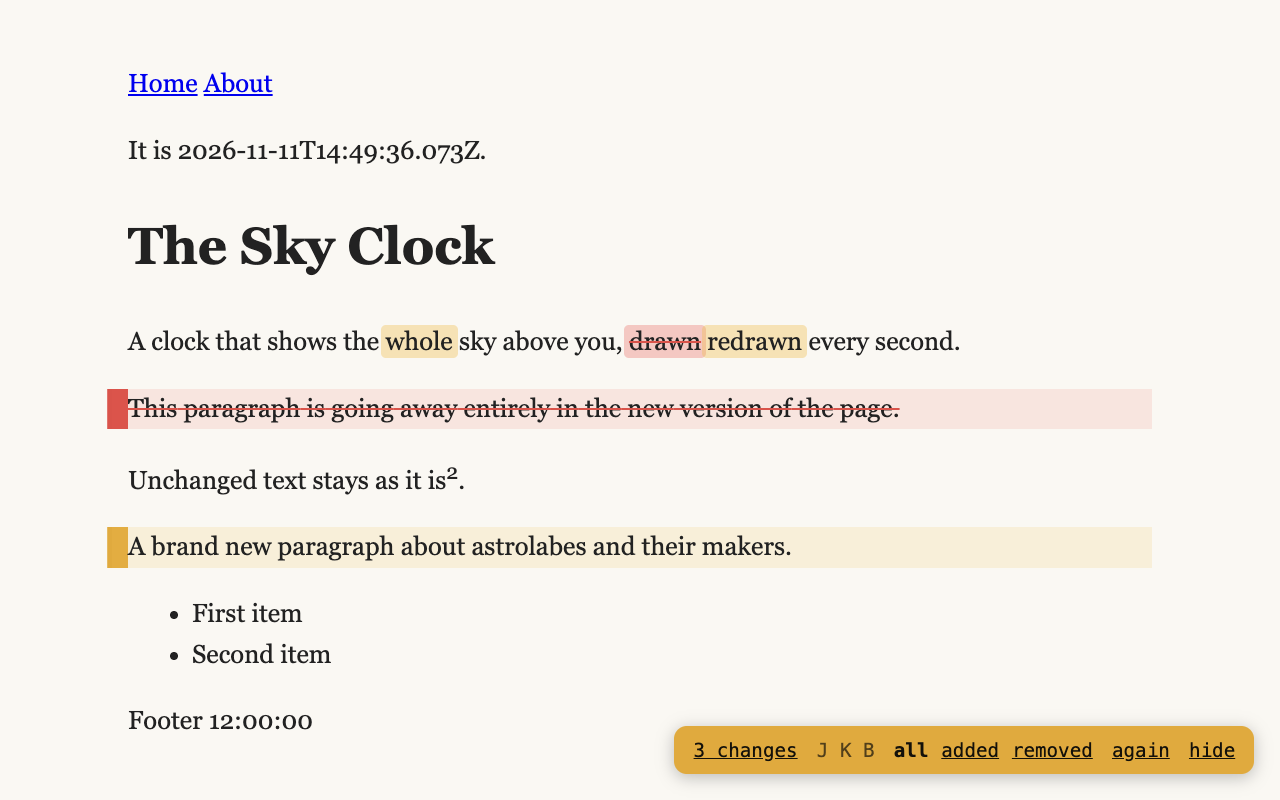
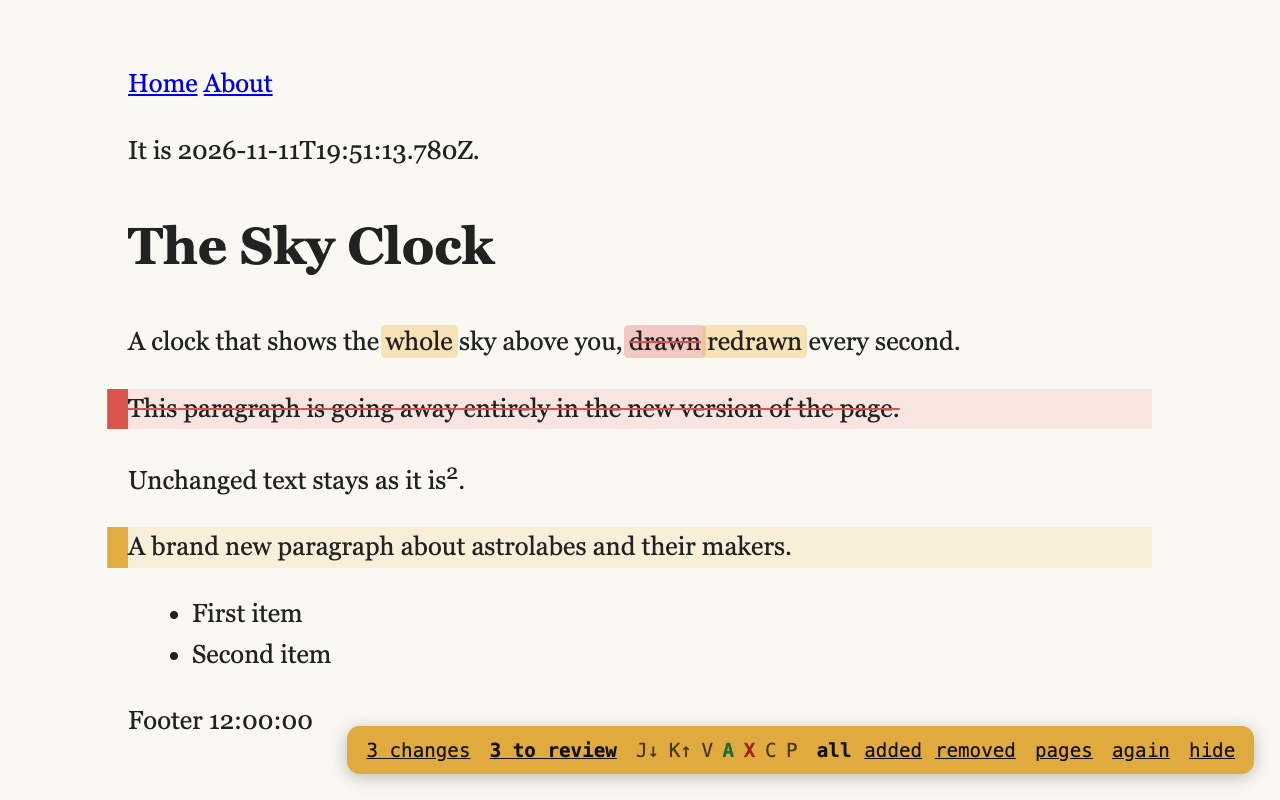
Store: new screenshots (all, review, pages, removed) and listing text for 0.4.2

Changed region(s): [[0.25, 0.9062, 0.8438, 1.0], [0.25, 0.1562, 0.375, 0.2188]]

diff --git a/store/LISTING.md b/store/LISTING.md
@@ -24,13 +24,13 @@ Pair the site you are working on (say http://localhost:3000) with the site to co
 • New words are highlighted, and removed words are struck through right where they were.
 • Press V to switch views: all changes, only what was added, or only what was removed.
 • Press J and K to jump to the next and previous change.
-• "pages" lists every page of the site that differs, including new and removed pages.
-• Review as you go: approve (A) or reject (X) each change, add notes or suggested wording (C), and copy them all as a list for whoever makes the fixes.
-• The badge counts the changed blocks.
+• Review as you go: approve (A) or reject (X) each change, or add a note or suggested wording (C). The badge shows how many changes are still to review.
+• "Copy notes" puts all your rejections, notes and suggested wording on the clipboard as one clear list, ready to paste to a colleague or an AI assistant.
+• "Pages" (P) lists every page of the site that differs, including new and removed pages, with each page's review progress. It checks pages on request, a batch at a time, so it is gentle on big sites.
 
 It stays on in the tab as you click around, including in single-page apps.
 
-Sites can set it up for their visitors: a preview build with <meta name="redline" content="https://your-production-site"> needs no settings at all, just a click on the button.
+Sites can set it up for their visitors: a preview build with <meta name="redline" content="https://your-production-site"> needs no settings at all, just a click on the button. That works for Vercel, Netlify and Cloudflare previews, and for GitHub Pages PR previews served from a folder.
 
 Redline compares the text both servers send, so a clock or a "3 minutes ago" drawn in the browser never shows up as a change. Sites behind a login work as long as you are signed in to them. Each pair can ignore parts of the page (menus, footers, footnote numbers) with a CSS selector.
 
@@ -42,11 +42,13 @@ Redline has no servers, analytics or accounts. It only talks to the sites you pa
 
 **Graphic assets:**
 - Store icon: `../icons/128.png`
-- Screenshots (1280×800): `screenshot-1-all.png`, `screenshot-2-added.png`, `screenshot-3-removed.png`
+- Screenshots (1280×800), in this order: `screenshot-1-all.png`,
+  `screenshot-2-review.png`, `screenshot-3-pages.png`, `screenshot-4-removed.png`
 - Small promo tile (440×280): `promo-440x280.png`
 
-To remake the screenshots: `STORE=1 npm test` (writes `all.png`, `added.png` and
-`removed.png` here; rename them), and open `tile.html` at 440×280 for the tile.
+To remake the screenshots: `STORE=1 npm test` (writes `all.png`, `review.png`,
+`pages.png` and `removed.png` here; rename them), and open `tile.html` at
+440×280 for the tile.
 
 **Homepage URL:** https://github.com/octagorm/redline
 
@@ -60,9 +62,9 @@ Compare the page in the current tab with the same page on another site the user 
 **Permission justifications:**
 
 - `storage`: Saves the user's pairs of sites to compare, their ignore rules, and their reviews of changes (approved, rejected, notes), in the browser only.
-- `scripting`: Runs the comparison script on the sites the user has added, and in a tab that was open before a site was added.
+- `scripting`: Runs the comparison script on the sites the user has added, in a tab that was open before a site was added, and reads a page's <meta name="redline"> tag when the user clicks the toolbar button.
 - `activeTab`: Lets the toolbar button turn the comparison on in the current tab.
-- Host permissions (optional, requested per site): Redline needs to read the pages of the site the user is working on and fetch the same pages from the site they compare it with. It asks for access to exactly the sites the user enters in its settings, at the moment they save them.
+- Host permissions (optional, requested per site): Redline needs to read the pages of the site the user is working on and fetch the same pages from the site they compare it with. It asks for access to exactly the two sites of a pair, when the user saves the pair or accepts the pair a page suggests.
 
 **Remote code:** No, I am not using remote code. (All code is in the package. Fetched pages are parsed as inert HTML; their scripts never run.)
 
